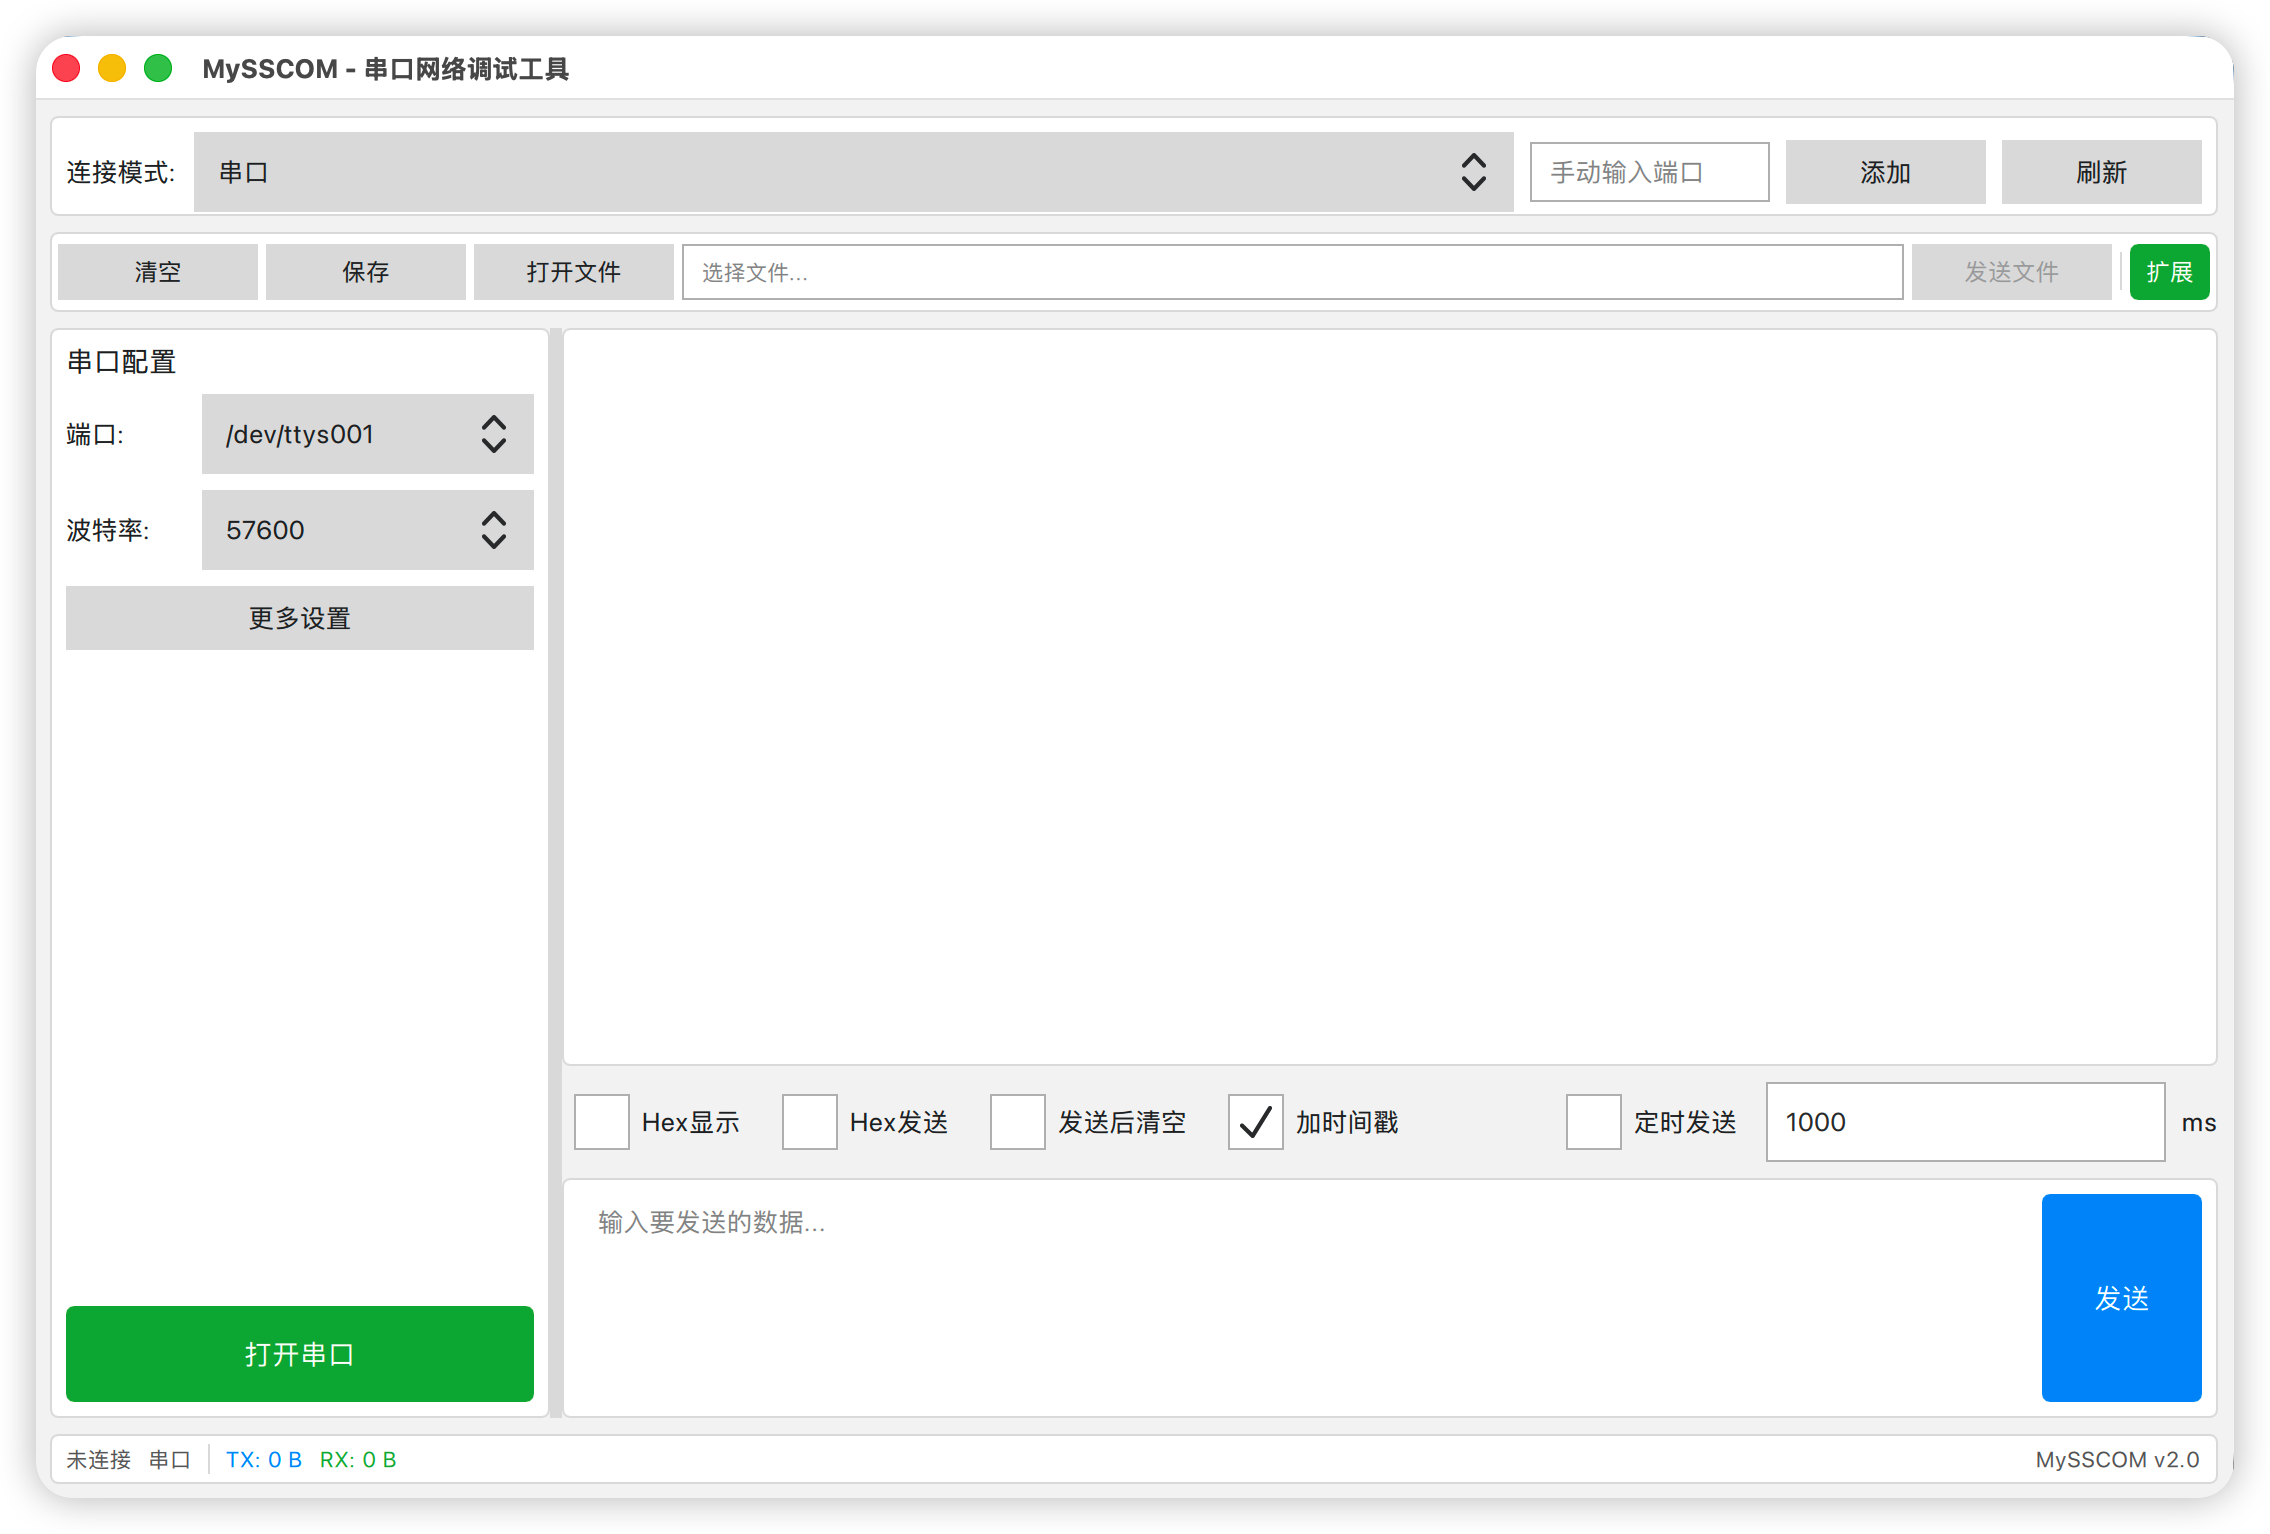
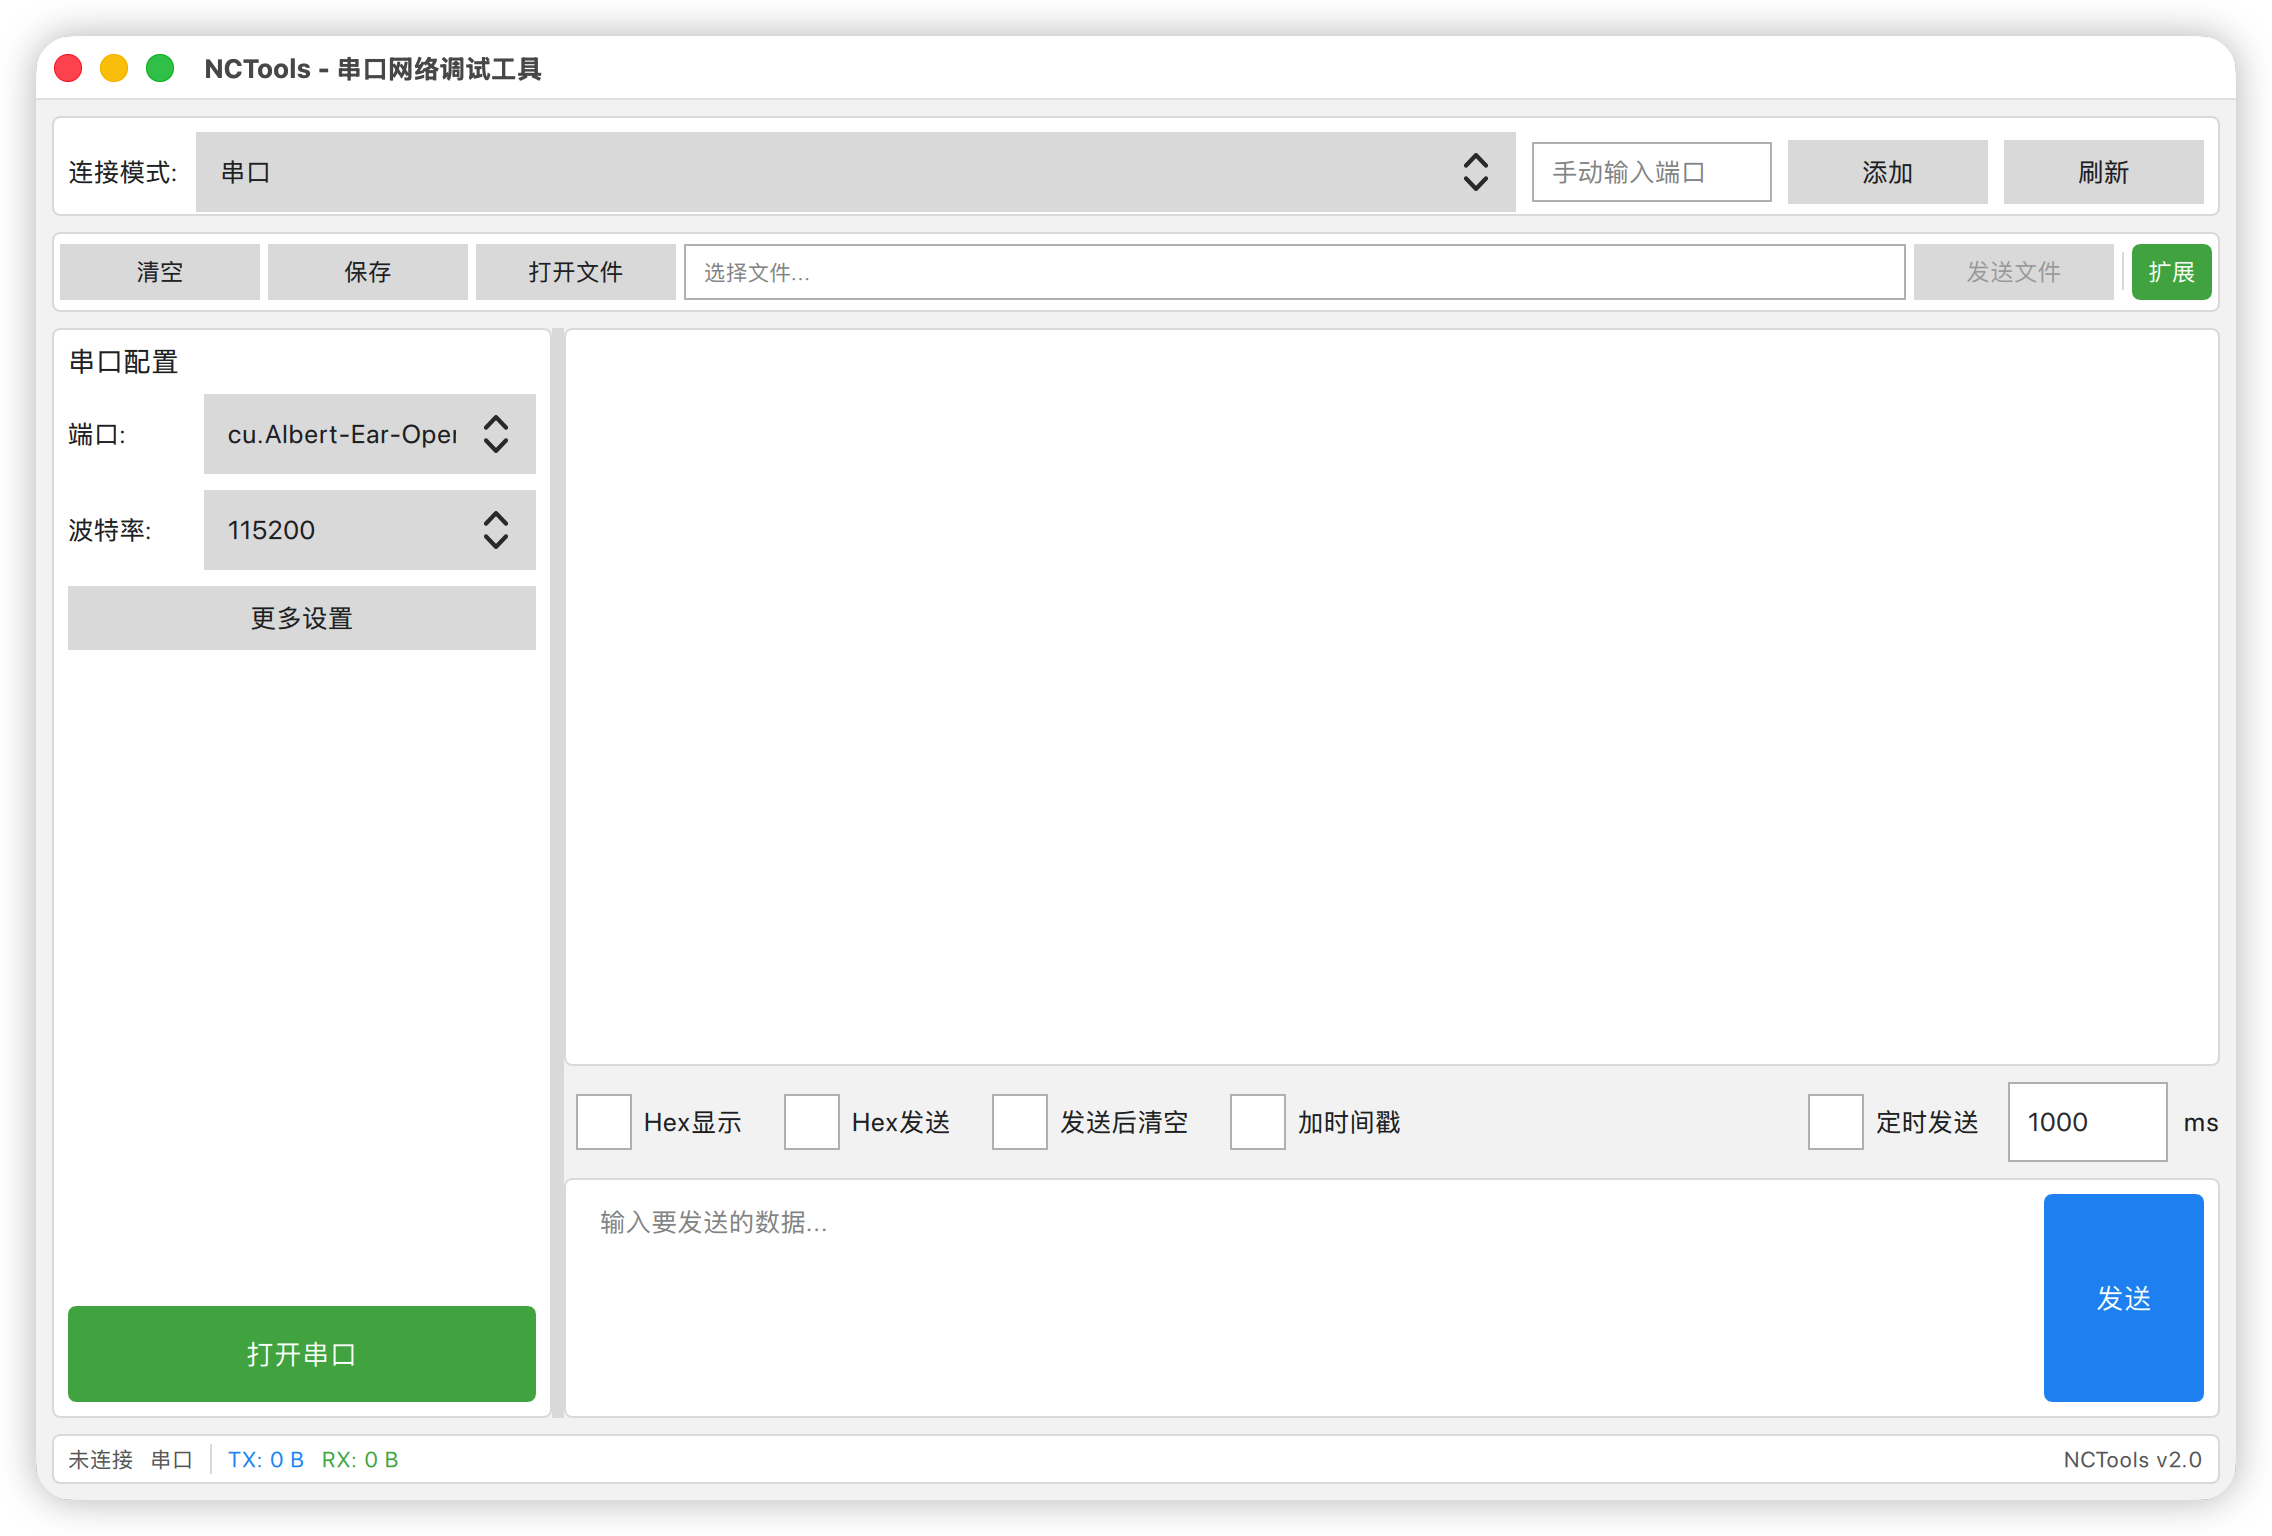
docs: update platform support to Windows and macOS
- Updated platform badge to show Windows | macOS
- Added Windows build instructions
- Updated system requirements for both platforms
- Updated both Chinese and English README

diff --git a/README_EN.md b/README_EN.md
@@ -8,7 +8,7 @@
 
 [![License: GPL v3](https://img.shields.io/badge/License-GPLv3-blue.svg)](https://www.gnu.org/licenses/gpl-3.0)
 [![Qt Version](https://img.shields.io/badge/Qt-6.8.3-green.svg)](https://www.qt.io)
-[![Platform](https://img.shields.io/badge/Platform-mOS-lightgrey.svg)](https://www.apple.com/macos/)
+[![Platform](https://img.shields.io/badge/Platform-Windows%20%7C%20macOS-lightgrey.svg)](https://www.qt.io)
 
 </div>
 
@@ -60,9 +60,11 @@ This project uses [MiMoCode](https://github.com/anthropics/claude-code) for code
 
 ## 🖥️ System Requirements
 
-- **Operating System**: macOS 12.0 or higher
+- **Operating System**: Windows 10+ or macOS 12.0+
 - **Qt Version**: Qt 6.8.3
-- **Compiler**: Xcode Command Line Tools (Apple Clang)
+- **Compiler**:
+  - Windows: MSVC 2019+ or MinGW 12+
+  - macOS: Xcode Command Line Tools (Apple Clang)
 - **Build Tool**: CMake 3.19+
 
 ## 📦 Installation & Build
@@ -71,12 +73,16 @@ This project uses [MiMoCode](https://github.com/anthropics/claude-code) for code
 
 ```bash
 # Clone repository
-git clone https://github.com/yourusername/NCTools.git
+git clone https://github.com/zuozl1992/NCTools.git
 cd NCTools
 
 # Create build directory
 mkdir build && cd build
+```
 
+#### macOS
+
+```bash
 # Configure CMake (specify Qt installation path)
 cmake .. -DCMAKE_PREFIX_PATH=~/Qt/6.8.3/macos
 
@@ -87,11 +93,24 @@ cmake --build .
 ./src/app/NCTools.app/Contents/MacOS/NCTools
 ```
 
+#### Windows
+
+```cmd
+# Configure CMake (specify Qt installation path)
+cmake .. -DCMAKE_PREFIX_PATH=C:/Qt/6.8.3/msvc2019_64
+
+# Build
+cmake --build . --config Release
+
+# Run
+.\src\app\Release\NCTools.exe
+```
+
 ### Install Qt
 
 1. Download Qt Online Installer from [Qt official website](https://www.qt.io/download)
 2. Install Qt 6.8.3, select the following components:
-   - Qt 6.8.3 for macOS
+   - Qt 6.8.3 for macOS or Windows
    - Qt SerialPort
    - Qt Network
 

diff --git a/README.md b/README.md
@@ -8,7 +8,7 @@
 
 [![License: GPL v3](https://img.shields.io/badge/License-GPLv3-blue.svg)](https://www.gnu.org/licenses/gpl-3.0)
 [![Qt Version](https://img.shields.io/badge/Qt-6.8.3-green.svg)](https://www.qt.io)
-[![Platform](https://img.shields.io/badge/Platform-mOS-lightgrey.svg)](https://www.apple.com/macos/)
+[![Platform](https://img.shields.io/badge/Platform-Windows%20%7C%20macOS-lightgrey.svg)](https://www.qt.io)
 
 </div>
 
@@ -60,9 +60,11 @@ NCTools 是一款功能强大的串口网络调试工具，专为嵌入式开发
 
 ## 🖥️ 系统要求
 
-- **操作系统**：macOS 12.0 或更高版本
+- **操作系统**：Windows 10+ 或 macOS 12.0+
 - **Qt 版本**：Qt 6.8.3
-- **编译器**：Xcode Command Line Tools (Apple Clang)
+- **编译器**：
+  - Windows: MSVC 2019+ 或 MinGW 12+
+  - macOS: Xcode Command Line Tools (Apple Clang)
 - **构建工具**：CMake 3.19+
 
 ## 📦 安装与构建
@@ -71,12 +73,16 @@ NCTools 是一款功能强大的串口网络调试工具，专为嵌入式开发
 
 ```bash
 # 克隆仓库
-git clone https://github.com/yourusername/NCTools.git
+git clone https://github.com/zuozl1992/NCTools.git
 cd NCTools
 
 # 创建构建目录
 mkdir build && cd build
+```
 
+#### macOS
+
+```bash
 # 配置 CMake（指定 Qt 安装路径）
 cmake .. -DCMAKE_PREFIX_PATH=~/Qt/6.8.3/macos
 
@@ -85,6 +91,19 @@ cmake --build .
 
 # 运行
 ./src/app/NCTools.app/Contents/MacOS/NCTools
+```
+
+#### Windows
+
+```cmd
+# 配置 CMake（指定 Qt 安装路径）
+cmake .. -DCMAKE_PREFIX_PATH=C:/Qt/6.8.3/msvc2019_64
+
+# 编译
+cmake --build . --config Release
+
+# 运行
+.\src\app\Release\NCTools.exe
 ```
 
 ### 安装 Qt